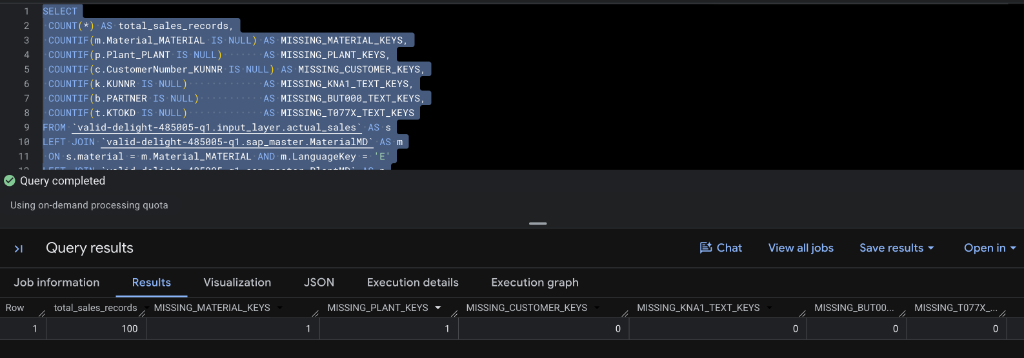
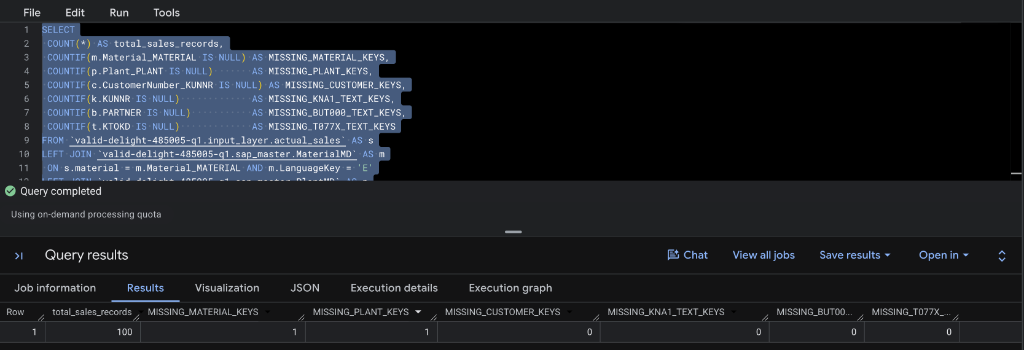
docs: use new uploaded screenshot for test 2 expected result

diff --git a/bigquery-data-engineering-codelab/index.html b/bigquery-data-engineering-codelab/index.html
@@ -303,7 +303,7 @@ LEFT JOIN `Your_GCP_ProjectID.sap_text.but000` AS b
 LEFT JOIN `Your_GCP_ProjectID.sap_text.t077x` AS t
   ON s.cust_class = t.KTOKD AND t.MANDT = &#39;012&#39; AND t.SPRAS = &#39;E&#39;;
 </code></pre>
-<p><strong>Expected Result:</strong><img alt="Expected Result" src="img/c86a19f704126f7d.png"></p>
+<p><strong>Expected Result:</strong><img alt="Expected Result" src="img/2418fd6d805b28ae.png"></p>
 
 
       </google-codelab-step>
